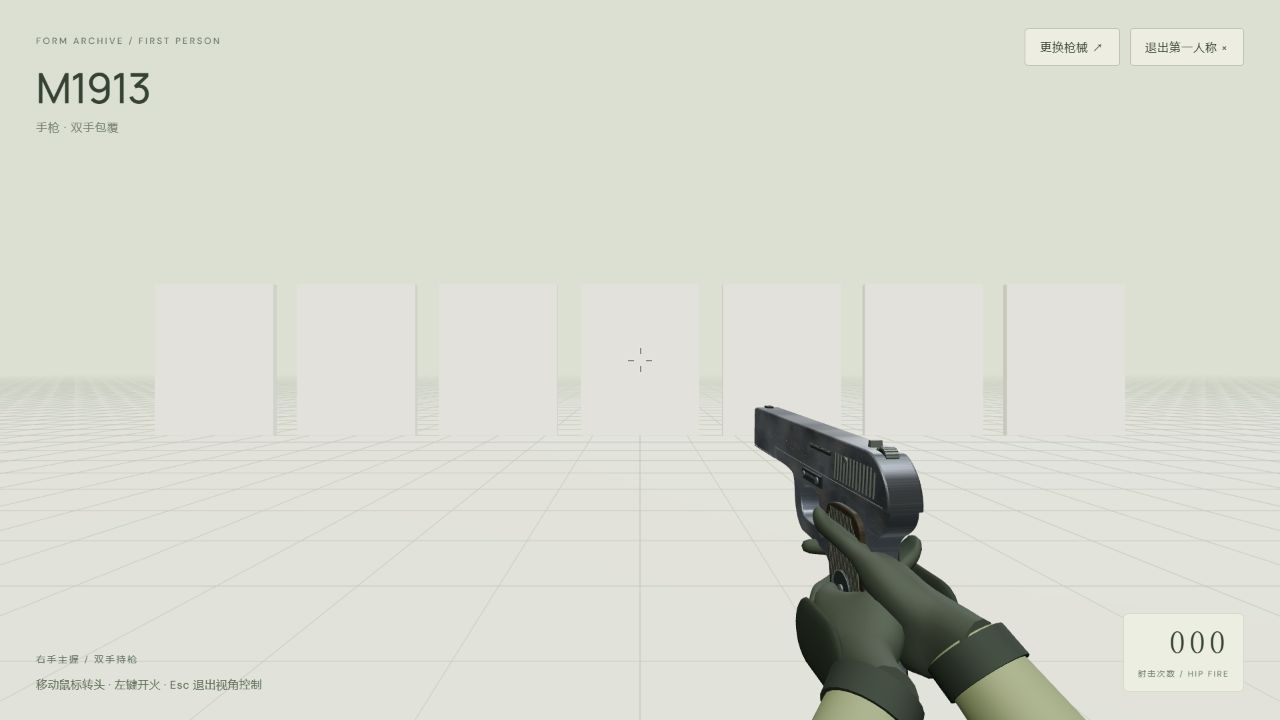
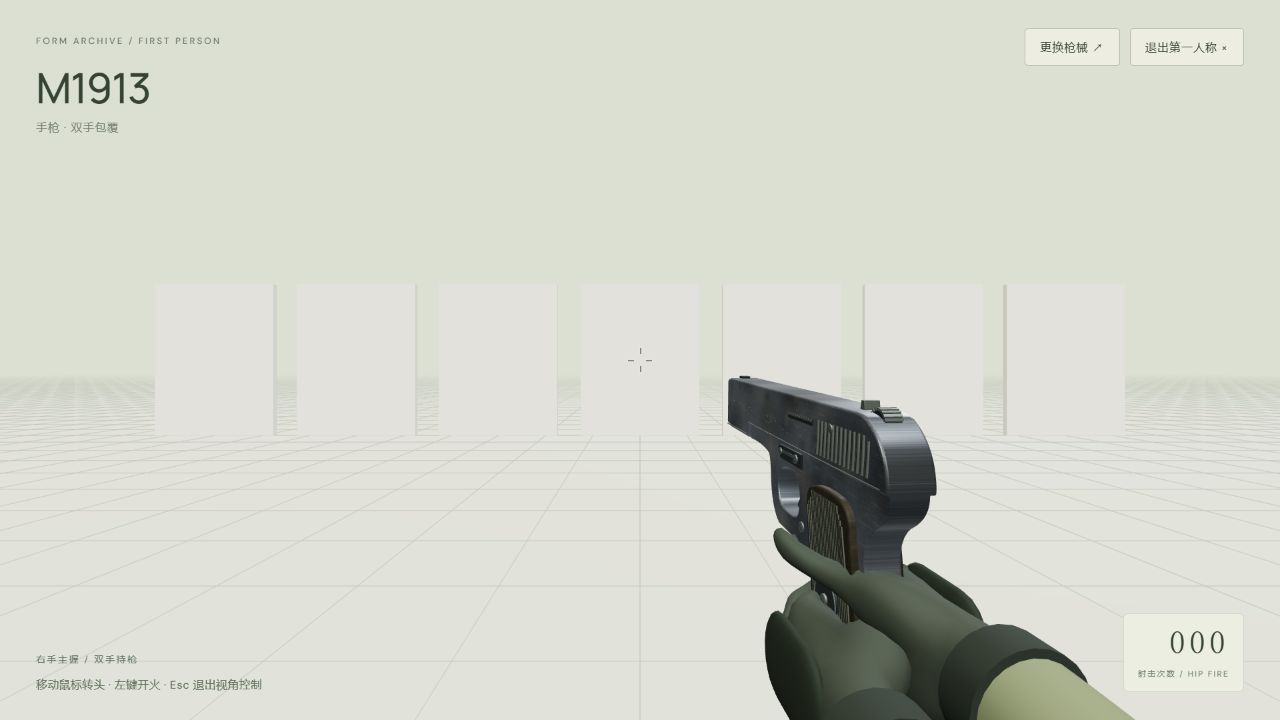
fix: align wrists and smooth close-range arm poses

Changed region(s): [[0.5625, 0.5194, 0.9062, 1.0]]

diff --git a/src/hand-rig.js b/src/hand-rig.js
@@ -60,11 +60,11 @@ export function prepareHand(scene, side, material) {
     bone.position.copy(position).applyQuaternion(basisQ).add(origin);
     bone.quaternion.copy(basisQ).multiply(rotation).multiply(inverseQ).multiply(bind[name].q);
   }
-  function curlChain(names, angles) {
+  function curlChain(names, angles, opposition = new THREE.Quaternion()) {
     let position = bind[names[0]].p.clone(), angle = 0;
     for (let i = 0; i < names.length; i++) {
       angle += angles[i] || 0;
-      const rotation = new THREE.Quaternion().setFromAxisAngle(axisX, -angle);
+      const rotation = opposition.clone().multiply(new THREE.Quaternion().setFromAxisAngle(axisX, -angle));
       setJoint(names[i], position, rotation);
       if (i + 1 < names.length) position = position.clone().add(
         bind[names[i + 1]].p.clone().sub(bind[names[i]].p).applyQuaternion(rotation),
@@ -83,7 +83,8 @@ export function prepareHand(scene, side, material) {
         index ? [0.18 + trigger * 0.22, 0.55 + trigger * 0.25, 0.35, 0] :
           support && rifle ? [0.48, 1.15, 0.65, 0] : [0.72, 1.28, 0.65, 0]);
     }
-    curlChain(['thumb-metacarpal', 'thumb-phalanx-proximal', 'thumb-phalanx-distal', 'thumb-tip'], [0.12, 0.36, 0.4, 0]);
+    const thumbOpposition = new THREE.Quaternion().setFromAxisAngle(new THREE.Vector3(0, 0, 1), side === 'left' ? 0.6 : -0.6);
+    curlChain(['thumb-metacarpal', 'thumb-phalanx-proximal', 'thumb-phalanx-distal', 'thumb-tip'], [0.12, 0.36, 0.4, 0], thumbOpposition);
     root.updateMatrixWorld(true);
   }
   return { root, pose, bones };
@@ -97,27 +98,40 @@ export async function loadHands() {
   return { left: prepareHand(left.scene, 'left', glove), right: prepareHand(right.scene, 'right', glove) };
 }
 
-// Wrist, elbow and shoulder anchors give the sleeve a bent silhouette. Its
-// independent root can later be replaced by a full upper-arm IK chain.
-export function createForearm(wrist, elbow, radius, material, shoulder) {
-  const direction = wrist.clone().sub(elbow);
-  const geometry = new THREE.CylinderGeometry(radius * 0.63, radius, direction.length(), 24, 8);
+// A continuous sleeve rounds the elbow and follows the palm axis at the cuff.
+// Anchors still describe a fixed pose rather than a full arm skeleton / IK chain.
+export function createForearm(wrist, elbow, radius, material, shoulder, wristDirection) {
+  const direction = wristDirection.clone().normalize();
+  const upperDirection = elbow.clone().sub(shoulder).normalize();
+  const foreDirection = wrist.clone().sub(elbow).normalize();
+  const rounding = Math.min(radius * 1.5, shoulder.distanceTo(elbow) * 0.3, wrist.distanceTo(elbow) * 0.3);
+  const beforeElbow = elbow.clone().addScaledVector(upperDirection, -rounding);
+  const afterElbow = elbow.clone().addScaledVector(foreDirection, rounding);
+  const curve = new THREE.CurvePath();
+  curve.add(new THREE.LineCurve3(shoulder, beforeElbow));
+  curve.add(new THREE.QuadraticBezierCurve3(beforeElbow, elbow, afterElbow));
+  curve.add(new THREE.CubicBezierCurve3(afterElbow,
+    afterElbow.clone().lerp(wrist, 0.45), wrist.clone().addScaledVector(direction, -radius * 1.2), wrist));
+  const segments = 64, radialSegments = 24;
+  const geometry = new THREE.TubeGeometry(curve, segments, 1, radialSegments, false);
+  const positions = geometry.attributes.position;
+  const elbowFraction = shoulder.distanceTo(elbow) / (shoulder.distanceTo(elbow) + elbow.distanceTo(wrist));
+  for (let i = 0; i <= segments; i++) {
+    const t = i / segments, center = curve.getPointAt(t);
+    const width = t < elbowFraction ? THREE.MathUtils.lerp(1.2, 1, t / elbowFraction) :
+      THREE.MathUtils.lerp(1, 0.63, (t - elbowFraction) / (1 - elbowFraction));
+    for (let j = 0; j <= radialSegments; j++) {
+      const index = i * (radialSegments + 1) + j;
+      const p = new THREE.Vector3().fromBufferAttribute(positions, index).sub(center).multiplyScalar(radius * width).add(center);
+      positions.setXYZ(index, p.x, p.y, p.z);
+    }
+  }
+  geometry.computeVertexNormals();
   const arm = new THREE.Mesh(geometry, material);
-  arm.position.copy(wrist).add(elbow).multiplyScalar(0.5);
-  arm.quaternion.setFromUnitVectors(new THREE.Vector3(0, 1, 0), direction.normalize());
   const cuff = new THREE.Mesh(new THREE.CylinderGeometry(radius * 0.73, radius * 0.73, radius * 0.52, 24),
     new THREE.MeshStandardMaterial({ color: '#252d27', roughness: 0.95 }));
   cuff.position.copy(wrist).addScaledVector(direction, -radius * 0.3);
-  cuff.quaternion.copy(arm.quaternion);
+  cuff.quaternion.setFromUnitVectors(new THREE.Vector3(0, 1, 0), direction);
   const group = new THREE.Group(); group.add(arm, cuff);
-  if (shoulder) {
-    const upperDirection = elbow.clone().sub(shoulder);
-    const upper = new THREE.Mesh(new THREE.CylinderGeometry(radius, radius * 1.2, upperDirection.length(), 24, 6), material);
-    upper.position.copy(elbow).add(shoulder).multiplyScalar(0.5);
-    upper.quaternion.setFromUnitVectors(new THREE.Vector3(0, 1, 0), upperDirection.normalize());
-    const joint = new THREE.Mesh(new THREE.SphereGeometry(radius, 24, 16), material);
-    joint.position.copy(elbow);
-    group.add(upper, joint);
-  }
   return group;
 }

diff --git a/src/first-person-config.js b/src/first-person-config.js
@@ -2,17 +2,17 @@
 export const firstPersonProfiles = {
   ak47: {
     // Hip-fire framing: lower right, mostly forward with a slight inward angle.
-    scale: 0.10, position: [0.23, -0.16, -0.65], rotation: [0, Math.PI / 2 + 0.14, 0.065],
-    elbows: { right: [0.34, -0.38, -0.25], left: [0.08, -0.34, -0.45] },
-    shoulders: { right: [0.36, -0.65, 0.06], left: [-0.17, -0.65, 0.06] },
+    scale: 0.10, position: [0.15, -0.15, -0.52], rotation: [0, Math.PI / 2 + 0.14, 0.065],
+    elbows: { right: [0.27, -0.29, -0.10], left: [-0.12, -0.30, -0.34] },
+    shoulders: { right: [0.23, -0.23, 0.06], left: [-0.21, -0.23, 0.02] },
     right: { wrist: [-1.91, -0.66, 0.36], rotation: [0, 0, -Math.PI / 2] },
-    left: { wrist: [1.04, -0.62, -0.65], rotation: [Math.PI / 2, 0, 0] },
+    left: { wrist: [0.92, -0.62, -0.65], rotation: [1.10, 0, -0.85] },
     recoil: 0.033, lift: 0.045, label: '步枪 · 护木支撑',
   },
   m1913: {
-    scale: 0.048, position: [0.18, -0.12, -0.58], rotation: [0, Math.PI / 2 + 0.12, 0.04],
-    elbows: { right: [0.33, -0.37, -0.22], left: [0.02, -0.36, -0.24] },
-    shoulders: { right: [0.36, -0.65, 0.06], left: [-0.17, -0.65, 0.06] },
+    scale: 0.048, position: [0.13, -0.08, -0.46], rotation: [0, Math.PI / 2 + 0.12, 0.04],
+    elbows: { right: [0.23, -0.24, -0.02], left: [0.055, -0.25, -0.02] },
+    shoulders: { right: [0.23, -0.23, 0.06], left: [-0.21, -0.23, 0.02] },
     right: { wrist: [-3.8, -1.6, 0.61], rotation: [0, 0, -Math.PI / 2] },
     left: { wrist: [-3.85, -2.15, -0.78], rotation: [Math.PI, 0, -Math.PI / 2] },
     recoil: 0.046, lift: 0.09, label: '手枪 · 双手包覆',

diff --git a/src/first-person.js b/src/first-person.js
@@ -60,7 +60,8 @@ export function createFirstPerson({ scene, camera, controls, canvas, archives, f
       weapon.add(hand.root); hand.pose({ support: side === 'left', rifle: id === 'ak47' });
       const elbow = new THREE.Vector3(...profile.elbows[side]).applyMatrix4(cameraToGun);
       const shoulder = new THREE.Vector3(...profile.shoulders[side]).applyMatrix4(cameraToGun);
-      arms.add(createForearm(new THREE.Vector3(...pose.wrist), elbow, 0.043 / profile.scale, sleeve, shoulder));
+      const wristDirection = new THREE.Vector3(0, 1, 0).applyEuler(hand.root.rotation);
+      arms.add(createForearm(new THREE.Vector3(...pose.wrist), elbow, 0.043 / profile.scale, sleeve, shoulder, wristDirection));
     }
     weapon.add(arms);
     document.querySelector('#fp-model-name').textContent = archives[id].title;

diff --git a/docs/first-person-plan.md b/docs/first-person-plan.md
@@ -95,3 +95,11 @@
 - 增加肘部及上臂袖子轮廓，形成屈肘姿态；仍使用单枪固定锚点，没有引入完整骨骼 IK。
 - 移除 AK 枪托在第一人称下的隐藏逻辑，恢复木制枪托，并保留主要朝前、轻微内扣的朝向。
 - 已检查两枪的第一人称显示、切枪和射击效果，更新效果截图；24 项测试通过。默认 `dist/index.html` 写入遇到 EPERM，改用临时输出目录验证生产构建，通过（保留现有大体积 chunk 提示）。
+
+### 腕部衔接与持枪距离再次校正
+
+- 两把枪的持握位置沿深度再次收近约 12–14 厘米，手枪单独调整高度，保证双手可见。
+- 原 AK 支撑腕与前臂方向约相差 70°，手枪辅助腕约 55°。现重新匹配手掌朝向、肘部与肩部锚点，四个腕部折角约为 6°–22°，避免用袖口掩盖异常折角。
+- 原分段圆台和肘球替换为连续袖子网格，肘部圆滑过渡，袖口切线跟随手掌方向；拇指增加对握旋转。当前仍为固定姿态，不是完整骨骼 IK。
+- 新增近身距离、腕部角度、前臂长度、袖口切线和网格有效性检查，并将拇指纳入骨长保持检查；两枪已验证切换和射击，浏览器无错误日志。
+- 本次 25 项测试通过，生产构建在临时输出目录通过；本地 5173 使用 Vite 开发服务，构建不覆盖预览页面。
